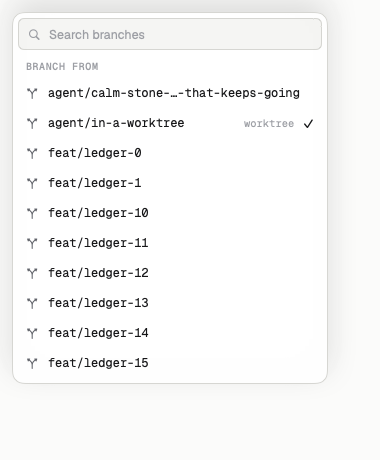
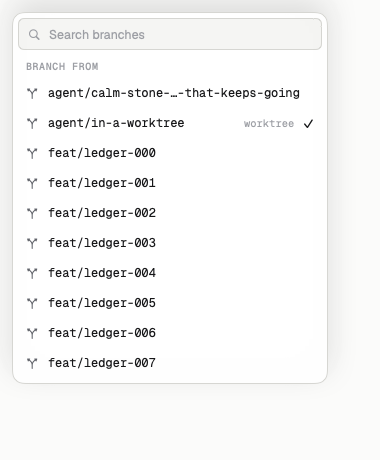
test: bound worktree branch picker rendering

diff --git a/Tests/ShepherdAppIntegrationTests/ListPerformanceTests+WorktreeBase.swift b/Tests/ShepherdAppIntegrationTests/ListPerformanceTests+WorktreeBase.swift
@@ -1,0 +1,53 @@
+import AppKit
+import ShepherdTestSupport
+import ShepherdUI
+import SwiftUI
+import Testing
+@testable import ShepherdApp
+
+extension ListPerformanceTests {
+    /// The new-worktree base picker over a repository with 300 branches builds the rows that fit
+    /// its 300pt list, and scrolling builds the rows that come into view, never every branch.
+    @Test func theWorktreeBasePickerOverThreeHundredBranchesBuildsOnlyVisibleRows() async throws {
+        try StubPi.installAsEngine()
+        let repo = try makeScratchRepo()
+        defer { try? FileManager.default.removeItem(at: repo) }
+        // One write for every ref: each branch points at the initial commit (packed-refs, which git
+        // reads like loose refs), not 300 `git branch` processes.
+        let head = try git(["rev-parse", "HEAD"], in: repo).trimmingCharacters(in: .whitespacesAndNewlines)
+        let packed = "# pack-refs with: peeled fully-peeled sorted \n"
+            + (0..<300).map { "\(head) refs/heads/feat/ledger-\(String(format: "%03d", $0))\n" }.joined()
+        try packed.write(to: repo.appendingPathComponent(".git/packed-refs"), atomically: true, encoding: .utf8)
+        let app = try AppHarness()
+        defer { app.stop() }
+        let vm = try await app.start()
+        let branches = try await app.server.changes.branches(agentID: nil, cwd: repo.path)
+        #expect(branches.branches.count >= 300)
+
+        let size = CGSize(width: 380, height: 460)
+        var window: OffscreenWindow!
+        let onScreen = Int(ChangesMenuLayout.listMaxHeight / NWChangesMenuMetrics.rowHeight) + 1
+        // Counted from before the window opens until the branches are in and drawn.
+        NWRenderProbe.start()
+        window = OffscreenWindow(size: size, dark: true, WorktreeBasePicker(vm: vm, repo: repo.path, selected: nil, choose: { _ in }, close: {}))
+        defer { window.close() }
+        try await eventuallyOnMain("the branches to load") {
+            ListPerf.settle(window)
+            return NWRenderProbe.count("changes.menu.row") > 0
+        }
+        ListPerf.settle(window)
+        let opened = NWRenderProbe.stop()
+        #expect(opened["changes.menu.row", default: 0] <= 2 * onScreen, "opening builds the rows that fit: \(opened)")
+
+        let scroll = try #require(ListPerf.scrollView(in: window))
+        // The 300pt window, not 300 rows tall: the list scrolls inside the menu.
+        #expect(scroll.frame.height <= ChangesMenuLayout.listMaxHeight + 1, "\(scroll.frame)")
+        let step = NWChangesMenuMetrics.rowHeight * 4
+        var moved: CGFloat = 0
+        let scrolled = ListPerf.counting { moved = ListPerf.scroll(window, scroll, step: step, steps: 20).distance }
+        let arriving = Int(moved / NWChangesMenuMetrics.rowHeight) + 1
+        #expect(moved > 0)
+        #expect(scrolled["changes.menu.row", default: 0] <= 2 * (arriving + onScreen), "\(scrolled)")
+        #expect(scrolled["changes.menu.row", default: 0] < 300, "never every branch: \(scrolled)")
+    }
+}

diff --git a/Tests/ShepherdPreviewTests/ThreadControlsPreviewTests.swift b/Tests/ShepherdPreviewTests/ThreadControlsPreviewTests.swift
@@ -45,9 +45,12 @@ struct ThreadControlsPreviewTests {
         let dir: URL
         if repo {
             dir = try makeScratchRepo()
-            for name in ["release/2.4", "agent/calm-stone-3831-with-a-very-long-branch-name-that-keeps-going"] + (0..<30).map({ "feat/ledger-\($0)" }) {
-                try git(["branch", name], in: dir)
-            }
+            // One write for every ref (packed-refs), each at the initial commit, not 300 processes.
+            let head = try git(["rev-parse", "HEAD"], in: dir).trimmingCharacters(in: .whitespacesAndNewlines)
+            let names = ["release/2.4", "agent/calm-stone-3831-with-a-very-long-branch-name-that-keeps-going"]
+                + (0..<300).map { "feat/ledger-\(String(format: "%03d", $0))" }
+            let packed = "# pack-refs with: peeled fully-peeled sorted \n" + names.sorted().map { "\(head) refs/heads/\($0)\n" }.joined()
+            try packed.write(to: dir.appendingPathComponent(".git/packed-refs"), atomically: true, encoding: .utf8)
             try git(["worktree", "add", "-q", dir.deletingLastPathComponent().appendingPathComponent("wt-\(UUID().uuidString.prefix(6))").path,
                      "-b", "agent/in-a-worktree"], in: dir)
         } else {

diff --git a/Sources/ShepherdApp/WorktreeBasePicker.swift b/Sources/ShepherdApp/WorktreeBasePicker.swift
@@ -38,7 +38,8 @@ struct WorktreeBasePicker: View {
             NWChangesMenuTitle("Branch from")
             if branches != nil {
                 ScrollView {
-                    VStack(spacing: 0) {
+                    // A repository can list hundreds of branches (the engine stops at 500).
+                    LazyVStack(spacing: 0) {
                         ForEach(options) { option in
                             NWChangesMenuRow(option.name, systemImage: NWChangesScopeGlyph.branch.systemImage, titleIsMono: true,
                                              trailing: option.tag.map { .text($0) } ?? .none, checked: option.selected) { choose(option.name) }

diff --git a/Packages/ShepherdUI/Sources/ShepherdUI/Components/Review/ChangesMenu.swift b/Packages/ShepherdUI/Sources/ShepherdUI/Components/Review/ChangesMenu.swift
@@ -129,6 +129,7 @@ public struct NWChangesMenuRow: View {
     }
 
     public var body: some View {
+        let _ = NWRenderProbe.tick("changes.menu.row")
         let nw = Color.nw
         HStack(spacing: 9) {
             Group {

diff --git a/docs/testing.md b/docs/testing.md
@@ -221,6 +221,8 @@ extension tests, on every bump (docs/pi-engine.md › Bumping the pin).
   Counts hold on a slow or busy runner; timing budgets do not, so don't add those. Two thread
   budgets differ on macOS 26 (CI) and in Xcode 26 builds whatever the speed, so there they run
   as known issues.
+- The new-worktree base picker is lazy over a repository with 300 branches (`changes.menu.row`, the
+  Changes menus' row probe): opening and scrolling build only the rows in its 300pt list.
 - Goal clock budgets assert that local card/header ticks redraw only their timeline content.
   Five accounting snapshots must redraw no composer bodies/chips, queue bodies/rows or thread
   bodies/row builders. Shared docks read cached goal presence/identity, not the full goal.
